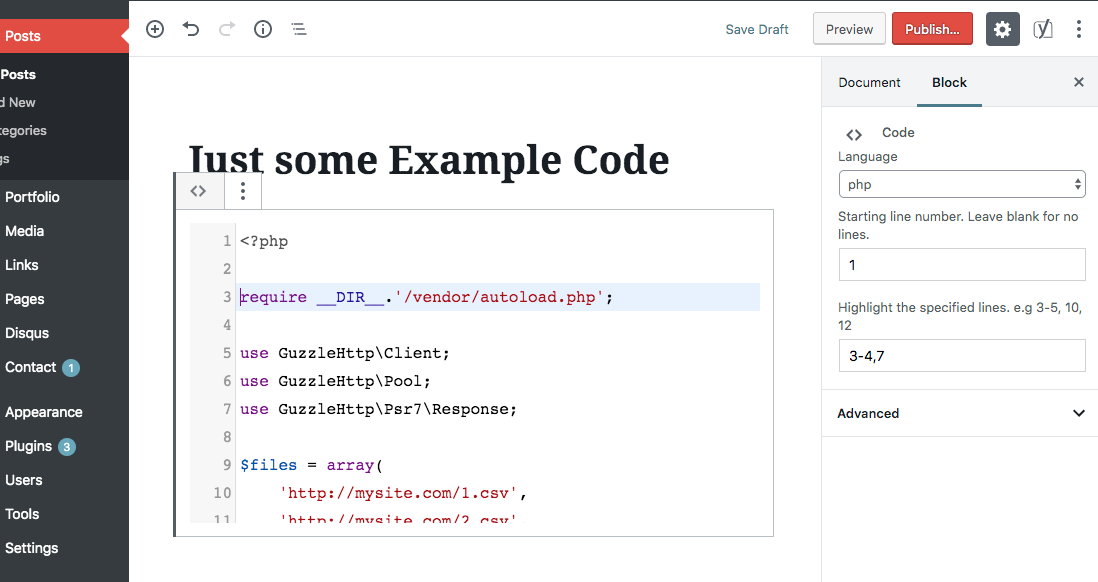
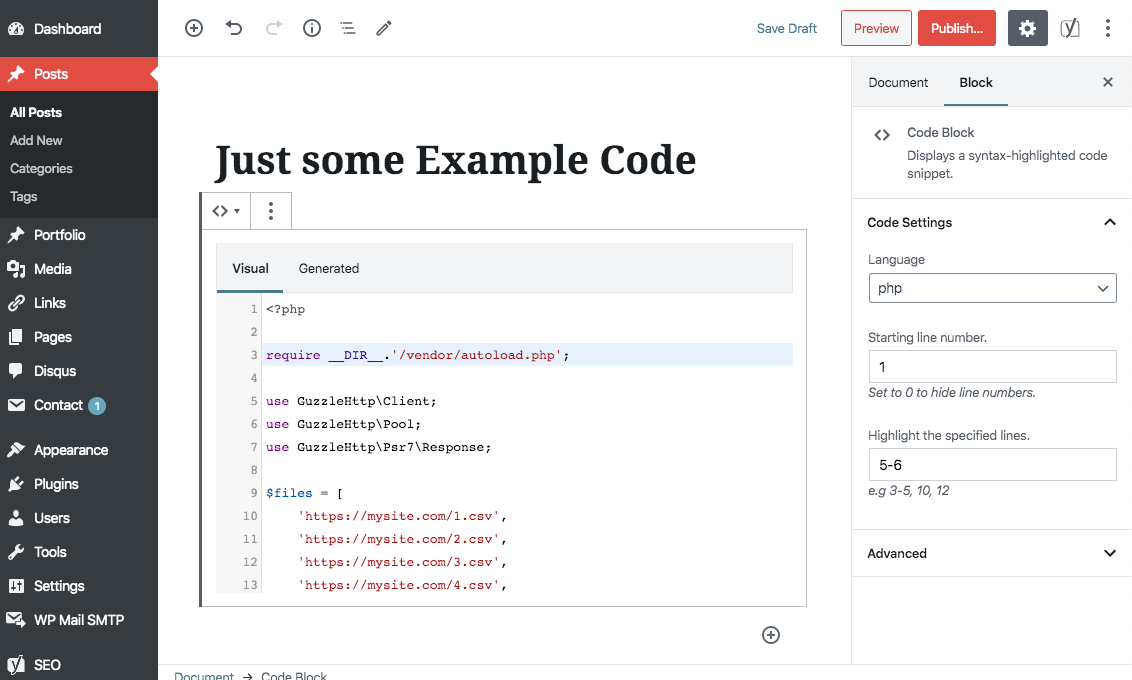
Minor README fix, updated screenshot, v2.1

diff --git a/flyn-syntax.php b/flyn-syntax.php
@@ -4,7 +4,7 @@
 Plugin Name: Flyn-Syntax
 Plugin URI: http://www.flynsarmy.com
 Description: Syntax highlighting using <a href="http://qbnz.com/highlighter/">GeSHi</a> supporting a wide range of popular languages.
-Version: 2.0
+Version: 2.1
 Author: Flyn San
 Author URI: http://www.flynsarmy.com
 Original Author: Steven A. Zahm, Ryan McGeary

diff --git a/README.md b/README.md
@@ -1,7 +1,8 @@
 # Flyn Syntax
 
 [![Software License](https://img.shields.io/badge/license-MIT-brightgreen.svg?style=flat-square)](LICENSE.md)
-![Build Status](https://github.com/Flynsarmy/wp-flyn-syntax/workflows/CI/badge.svg)
+![Build Status - PHP](https://github.com/Flynsarmy/wp-flyn-syntax/workflows/CI%20-%20PHP/badge.svg)
+![Build Status - JS](https://github.com/Flynsarmy/wp-flyn-syntax/workflows/CI%20-%20JS/badge.svg)
 
 > Flyn-Syntax provides clean syntax highlighting for embedding source code within pages or posts.
 
@@ -47,7 +48,7 @@ Click the *Insert code block* button added by this plugin in the post editor WYS
 
 ### Gutenberg
 
-Add a *Code* block. Set your language, starting line and line highlights on the right.
+Add a *Code Block* block. Set your language, starting line and line highlights on the right.
 
 ### Manual 
 Wrap code blocks with `<pre lang='LANGUAGE' line='1' escaped='1|true' highlight='1,2,5-7' src='http://github.com/my/repo'>` and `</pre>` where 
@@ -163,6 +164,11 @@ This allows for a great possibility of different customizations. Be sure to
 review the [GeSHi Documentation](http://qbnz.com/highlighter/geshi-doc.html).
 
 ## Changelog
+
+**v2.1** *(2020-04-07)*
+*  Improved Gutenberg support
+*  Updated build process
+*  Updated screenshot
 
 **v2.0** *(2019-08-12)*
 *  Added Gutenberg support
